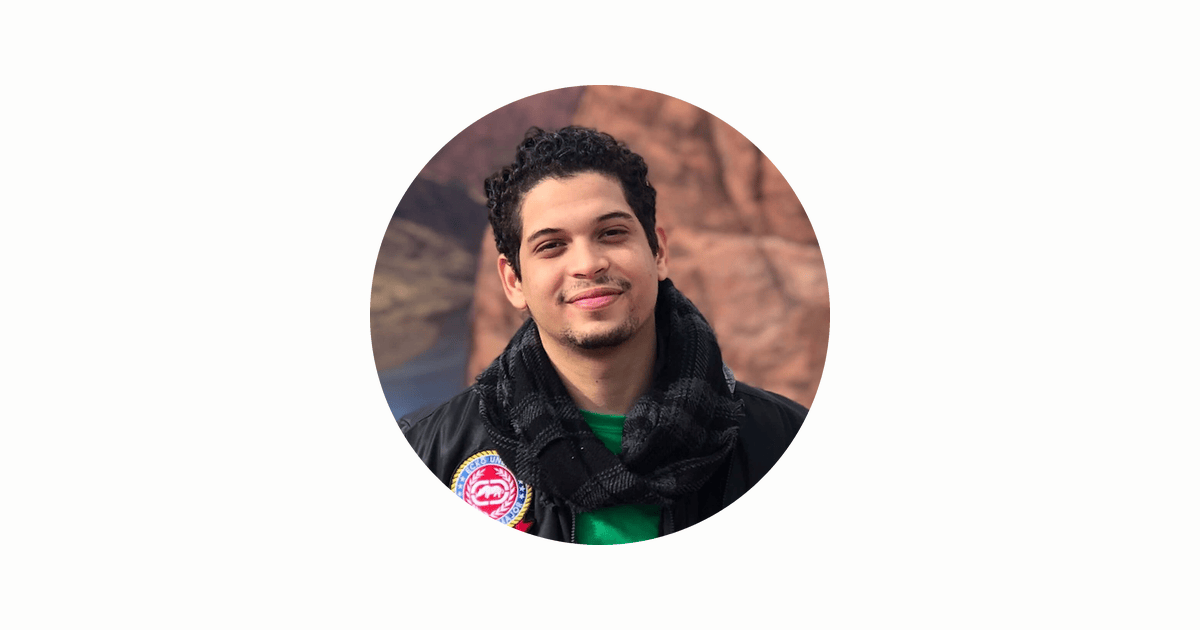
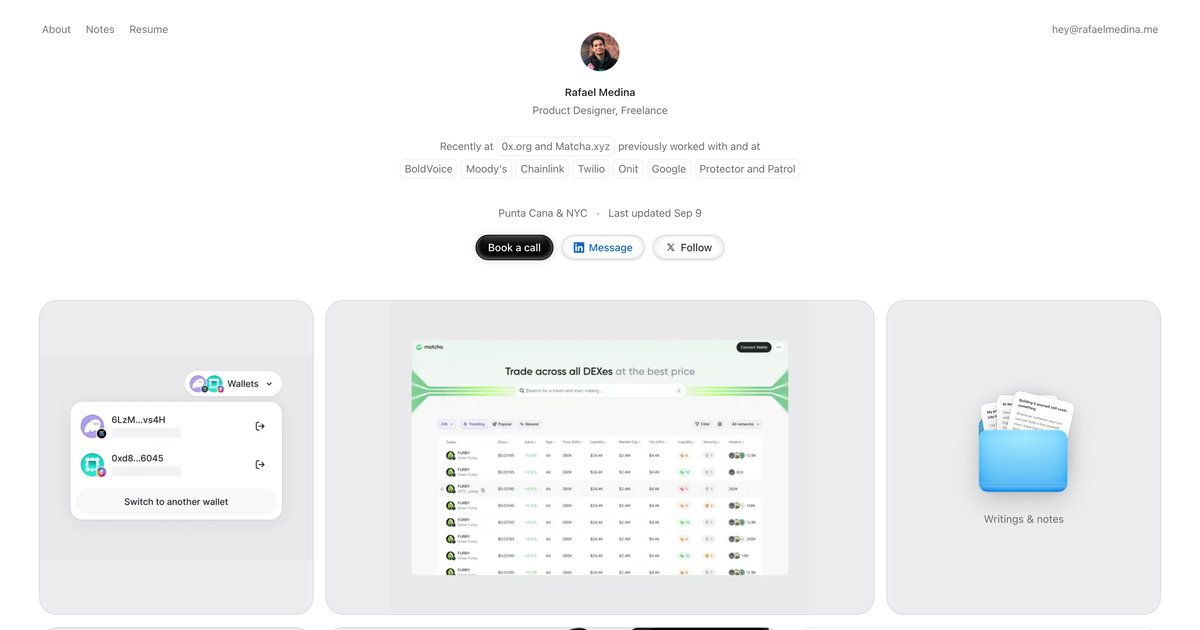
Preview the homepage in the social sharing card (#140)
* Add a script that shoots the social card from the built site

The card had to be produced by hand, so there was no way to refresh it
when the homepage changed. This serves dist/ on an ephemeral port and
screenshots the homepage at 1600x840 CSS pixels — the 1.91:1 frame social
cards crop to, wide enough for the desktop layout and tall enough for the
first row of work tiles — then scales Chromium's 2x render down to the
1200x630 the meta tags declare.

Reduced motion is emulated, which is the site's own route to a settled
first paint: the avatar intro drops straight to its revealed state and
the tile entrances are cancelled, so nothing is caught mid-animation.

Like the résumé, it stays out of `npm run build`: the PNG is a committed
asset and a build should not need a browser.

* Make the social card the homepage instead of a portrait

Links to rafaelmedina.me previewed as a cropped portrait on an off-white
field, which showed a reader the author and nothing about the site. The
card is now the homepage itself — nav, portrait, intro, and the first row
of work tiles — regenerated by scripts/build-og-image.mjs.

The alt text describes what the card now shows, in index.html for the
static head and in projectMetadata.ts for the pages that render their own.

* Check the homepage card against the size its tags declare

Nothing in the build reproduces the social card, so a re-shot image and
the og:image:width/height beside it can drift apart silently and every
[…]

diff --git a/tests/e2e/project-seo.spec.ts b/tests/e2e/project-seo.spec.ts
@@ -1,8 +1,22 @@
-import { expect, test } from "@playwright/test"
+import { expect, test, type Page } from "@playwright/test"
 
 // Exercise native tabs in full Chromium. The headless shell can receive the
 // destination HTML yet leave a modified-click tab on its provisional document.
 test.use({ channel: "chromium" })
+
+/** The card's real pixel size next to the one its meta tags promise. */
+function socialImageSize(page: Page) {
+  return page.evaluate(async () => {
+    const content = (property: string) => document.querySelector(`meta[property="${property}"]`)!.getAttribute("content")!
+    const image = new Image()
+    image.src = new URL(content("og:image")).pathname
+    await image.decode()
+    return {
+      actual: [image.naturalWidth, image.naturalHeight],
+      declared: [Number(content("og:image:width")), Number(content("og:image:height"))],
+    }
+  })
+}
 
 test("project pages ship distinct metadata and readable content without JavaScript", async ({ browser, request, baseURL }) => {
   const context = await browser.newContext({ javaScriptEnabled: false, baseURL })
@@ -60,16 +74,7 @@ test("project pages hydrate into the gallery after reload and index navigation",
   page.on("pageerror", error => errors.push(error.message))
   await page.goto("/work/matcha-multiwallet-flow/")
   await expect(page.getByRole("dialog")).toHaveAccessibleName("Matcha multiwallet flow")
-  const socialImage = await page.evaluate(async () => {
-    const content = (property: string) => document.querySelector(`meta[property="${property}"]`)!.getAttribute("content")!
-    const image = new Image()
-    image.src = new URL(content("og:image")).pathname
-    await image.decode()
-    return {
-      actual: [image.naturalWidth, image.naturalHeight],
-      declared: [Number(content("og:image:width")), Number(content("og:image:height"))],
-    }
-  })
+  const socialImage = await socialImageSize(page)
   expect(socialImage.declared).toEqual(socialImage.actual)
   await page.reload()
   await expect(page.getByRole("dialog")).toHaveAccessibleName("Matcha multiwallet flow")
@@ -102,6 +107,16 @@ test("homepage project links support a new tab and an inline preview", async ({ 
   await page.keyboard.press("Escape")
   await expect(page).toHaveTitle("Rafael Medina — Product Designer")
   expect(errors).toEqual([])
+})
+
+// The homepage's card is a screenshot of the homepage, regenerated by hand with
+// scripts/build-og-image.mjs. No build step reproduces it, so this is the only
+// thing standing between a re-shot card and meta tags that describe the old one.
+test("the homepage social card is the size its tags declare", async ({ page }) => {
+  await page.goto("/")
+  const socialImage = await socialImageSize(page)
+  expect(socialImage.declared).toEqual([1200, 630])
+  expect(socialImage.actual).toEqual(socialImage.declared)
 })
 
 test("the 404 stays readable and uses the shared site styles", async ({ page }) => {

diff --git a/index.html b/index.html
@@ -66,7 +66,7 @@
     <meta property="og:image:type" content="image/png" />
     <meta property="og:image:width" content="1200" />
     <meta property="og:image:height" content="630" />
-    <meta property="og:image:alt" content="Portrait of Rafael Medina centered on a plain off-white background." />
+    <meta property="og:image:alt" content="The rafaelmedina.me homepage: Rafael Medina's portrait and intro above the first row of work tiles." />
 
     <meta name="twitter:card" content="summary_large_image" />
     <meta name="twitter:title" content="Rafael Medina — Product Designer" />
@@ -75,7 +75,7 @@
       content="Senior product designer across web3, fintech, and consumer products. Ten years prototyping in code and shipping real interfaces. Available for work."
     />
     <meta name="twitter:image" content="https://rafaelmedina.me/og-image.png" />
-    <meta name="twitter:image:alt" content="Portrait of Rafael Medina centered on a plain off-white background." />
+    <meta name="twitter:image:alt" content="The rafaelmedina.me homepage: Rafael Medina's portrait and intro above the first row of work tiles." />
     <meta name="twitter:creator" content="@rafaelmedian" />
     <meta name="twitter:site" content="@rafaelmedian" />
     <script type="application/ld+json">

diff --git a/src/lib/projectMetadata.ts b/src/lib/projectMetadata.ts
@@ -47,7 +47,7 @@ const homePage: PageDescription = {
   image: "/og-image.png",
   imageWidth: 1200,
   imageHeight: 630,
-  imageAlt: "Portrait of Rafael Medina centered on a plain off-white background.",
+  imageAlt: "The rafaelmedina.me homepage: Rafael Medina's portrait and intro above the first row of work tiles.",
 }
 
 // The social image is the same sheet the hero's Resume link previews, at its

diff --git a/docs/operations.md b/docs/operations.md
@@ -39,6 +39,7 @@ Some files under `public/` are generated but committed, deliberately kept out of
 
 ```sh
 node scripts/build-resume.mjs                 # public/rafael-medina-resume.pdf + preview PNG
+node scripts/build-og-image.mjs               # public/og-image.png, shot from a built dist/
 node scripts/build-github-activity.mjs        # src/data/githubActivity.ts
 node scripts/build-writing-marks.mjs          # public/writings/marks/ pencil marks
 node scripts/generate-preview-variants.mjs    # -480w/-960w webp siblings
@@ -48,7 +49,9 @@ node scripts/optimize-video-previews.mjs      # re-encoded preview videos
 
 Run the relevant one after editing its source, then commit the result. The résumé
 is rendered from `src/data/cv.ts` — it is not a Figma export any more, so it stops
-drifting from the live site.
+drifting from the live site. The social card is a screenshot of the homepage, so
+it needs a fresh `npm run build` before it and a re-run after any change to the
+header or the first row of the work grid.
 
 ## Shared likes, locally
 
